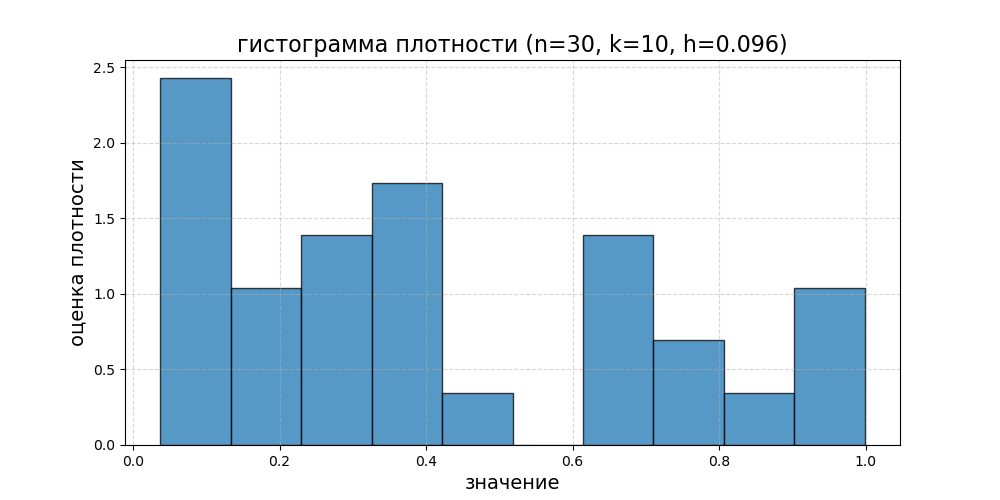
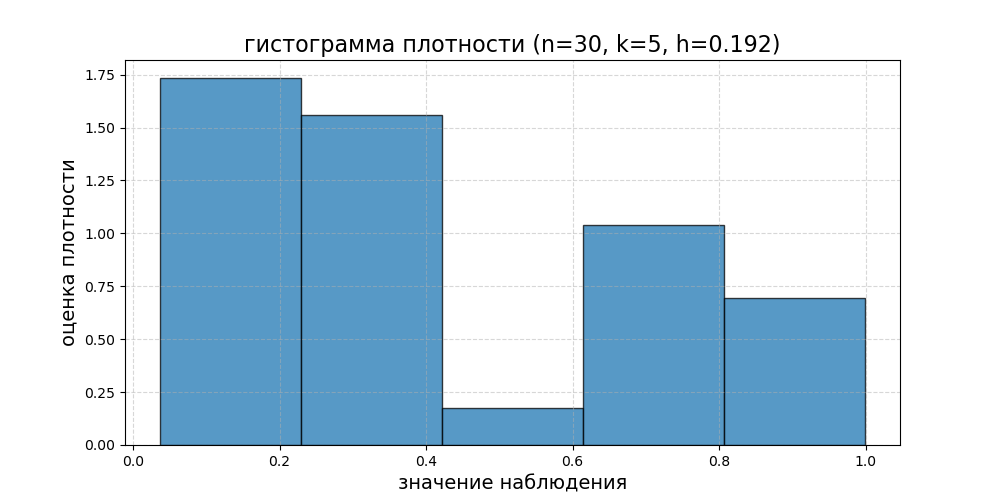
histogram cosmetic changes

diff --git a/task2/make_histogram.py b/task2/make_histogram.py
@@ -5,7 +5,7 @@ data = [0.037, 0.941, 0.683, 0.15, 0.84, 0.137, 0.374, 0.316, 0.907, 0.042,
         0.258, 0.364, 0.415, 0.123, 0.311, 0.752, 0.999, 0.409, 0.337, 0.654]
 
 n = len(data)
-k = 10 
+k = 5
 x_min, x_max = min(data), max(data)
 print("a = {}, b = {}".format(x_min, x_max))
 h = (x_max - x_min) / k # ширина каждого бина (отрезка)
@@ -23,7 +23,7 @@ plt.hist(
     edgecolor='black'
 )
 
-plt.xlabel('значение', fontsize=14)
+plt.xlabel('значение наблюдения', fontsize=14)
 plt.ylabel('оценка плотности', fontsize=14)
 plt.title(f'гистограмма плотности (n={n}, k={k}, h={h:.3f})', fontsize=16)
 plt.grid(True, linestyle='--', alpha=0.5)
